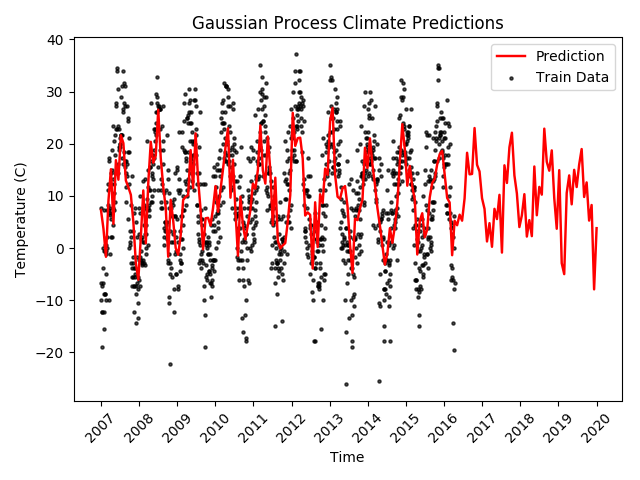
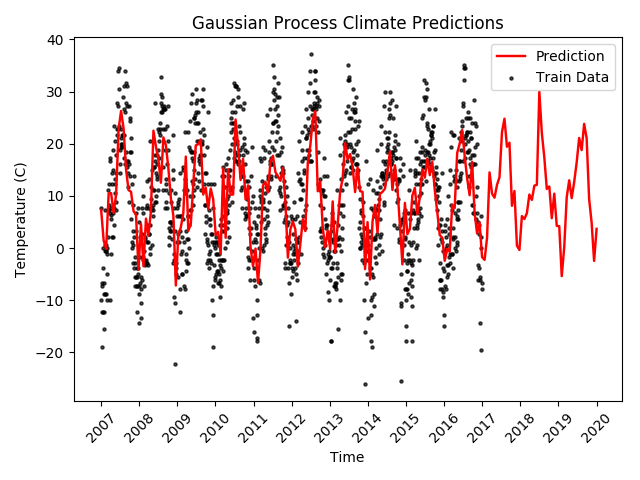
fixes to prediction graph

diff --git a/skgaus.py b/skgaus.py
@@ -6,6 +6,7 @@ from sklearn.gaussian_process.kernels \
     import RBF, WhiteKernel, RationalQuadratic, ExpSineSquared
 from sklearn.model_selection import train_test_split
 from sklearn import preprocessing
+from sklearn.model_selection import GridSearchCV
 import datetime
 
 
@@ -38,7 +39,7 @@ def gaus_p(X_train, X_test, y_train, y_test=None):
         print('Score of GPR: {}'.format(gpr.score(X_tes, y_test)))
 
     # plot training data and prediction
-    plot_pred(gpr, 'Gaussian Process', '2007_std', X_trs, y_train, X_tes)
+    plot_pred(gpr, 'Gaussian Process', 'prediction_2007', X_trs, y_train, X_tes)
 
     return gpr, y_pred
 
@@ -56,22 +57,22 @@ def plot_pred(model, model_name, fig_name, X_train, y_train, X_test):
     plt.plot(x, y, c='r', label='Prediction', linewidth=1.75)
 
     # plot confidence interval
-    x_pred = np.linspace(X_train.max(), np.max(X_test), 200).reshape(-1, 1)
-    y_pred, std = model.predict(x_pred, return_std=True)
-    plt.fill(np.concatenate([x_pred, x_pred[::-1]]),
-             np.concatenate([y_pred - 1.9600 * std,
-                            (y_pred + 1.9600 * std)[::-1]]),
-             alpha=.3, fc='b', ec='None', label='95% confidence interval')
+    # x_pred = x[np.where(x>X_train.max())]
+    # y_pred = y[np.where(x>X_train.max())]
+    # std = std[np.where(x>X_train.max())]
+    # plt.fill(np.concatenate([x, x[::-1]]),\
+    #          np.concatenate([y - 1.96 * std, (y + 1.96 * std)[::-1]]),\
+    #          alpha=.5, fc='b', ec='None', label='95% confidence interval')
 
-    # plt.fill_between(x_pred, y_pred - std, y_pred + std,\
-    #                  alpha=0.5, color='k')
+    # plt.fill_between(x, y - std * 1.96, y + std * 1.96,\
+    #                  alpha=0.5, color='gray')
 
     plt.title('{} Climate Predictions'.format(model_name))
     plt.xlabel('Time')
     plt.ylabel('Temperature (C)')
     labels = np.arange(2007, 2021, 1)
     plt.xticks(np.linspace(x.min(), x.max(), 14), labels, rotation=45)
-    # plt.legend()
+    plt.legend()
     plt.tight_layout()
     plt.savefig('images/{}.png'.format(fig_name))
 
@@ -107,7 +108,7 @@ if __name__ == '__main__':
     all_y = df['hourly_dry_bulb_temp_f'].values.reshape(-1, 1)
 
     predicts = pd.DataFrame(\
-                np.array(['2021'], dtype='datetime64'))
+                np.array(['2020'], dtype='datetime64'))
     predicts = (pd.to_numeric(predicts[0].values)/1000000000000000000)\
                 .reshape(-1, 1)
 
